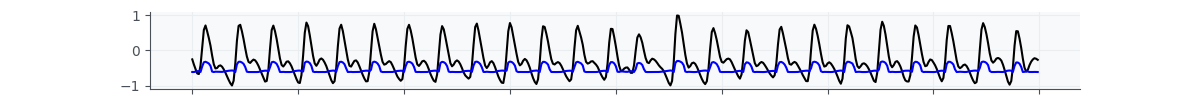
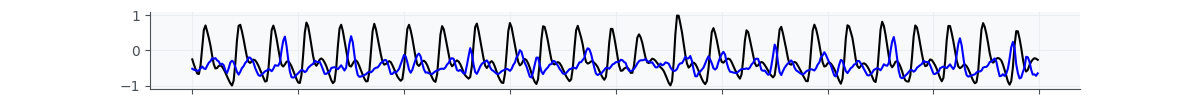
experiments

Changed region(s): [[0.1542, 0.39, 0.8633, 0.78]]

diff --git a/codes/test_cardiogan.py b/codes/test_cardiogan.py
@@ -60,14 +60,14 @@ print("model loaded successfully")
 
 x_ppg = np.loadtxt('ppg_example.txt')
 x_ppg = np.array(x_ppg)
-x_ppg = cv2.resize(x_ppg, (1,ppg_segment_size), interpolation = cv2.INTER_LINEAR)
-print(x_ppg.shape)
+x_ppg = cv2.resize(x_ppg, (1, ppg_segment_size), interpolation = cv2.INTER_LINEAR)
+x_ppg = np.moveaxis(x_ppg, -1, 0)
 # x_ppg = preprocessing.filter_ppg(x_ppg, 128)
-x_ppg = skp.minmax_scale(x_ppg, (-1, 1), axis=0)
+x_ppg = skp.minmax_scale(x_ppg, (-1, 1), axis=1)
 
 x_ecg = sample_P2E(x_ppg, Gen_PPG2ECG)
 # print(x_ecg[:,0].shape, x_ppg.shape)
-one_ecg = x_ecg[:,0]
+one_ecg = x_ecg[0]
 
 from matplotlib import pyplot as plt
 
@@ -78,6 +78,6 @@ fig, (ax1) = plt.subplots(1, 1,
 fs = 128
 t = np.arange(0,len(one_ecg)/fs,1.0/fs)
 # fig.suptitle('PPG') 
-ax1.plot(t, x_ppg, color = 'black')
+ax1.plot(t, x_ppg[0], color = 'black')
 ax1.plot(t, one_ecg, color = 'blue')
 plt.savefig('test.png')

diff --git a/README.md b/README.md
@@ -2,7 +2,10 @@
 <img src="./images/ppg2ecg_fast.gif" width=100% /> 
 </p>
 
-### CardioGAN: Attentive Generative Adversarial Network with Dual Discriminators for Synthesis of ECG from PPG
+# CardioGAN: Attentive Generative Adversarial Network with Dual Discriminators for Synthesis of ECG from PPG
+
+Replicated result
+![img](codes/test.png)
 
 ## How to run
 * [link to download weights](https://github.com/pritamqu/ppg2ecg-cardiogan/releases/download/model_weights/cardiogan_ppg2ecg_generator.zip)
